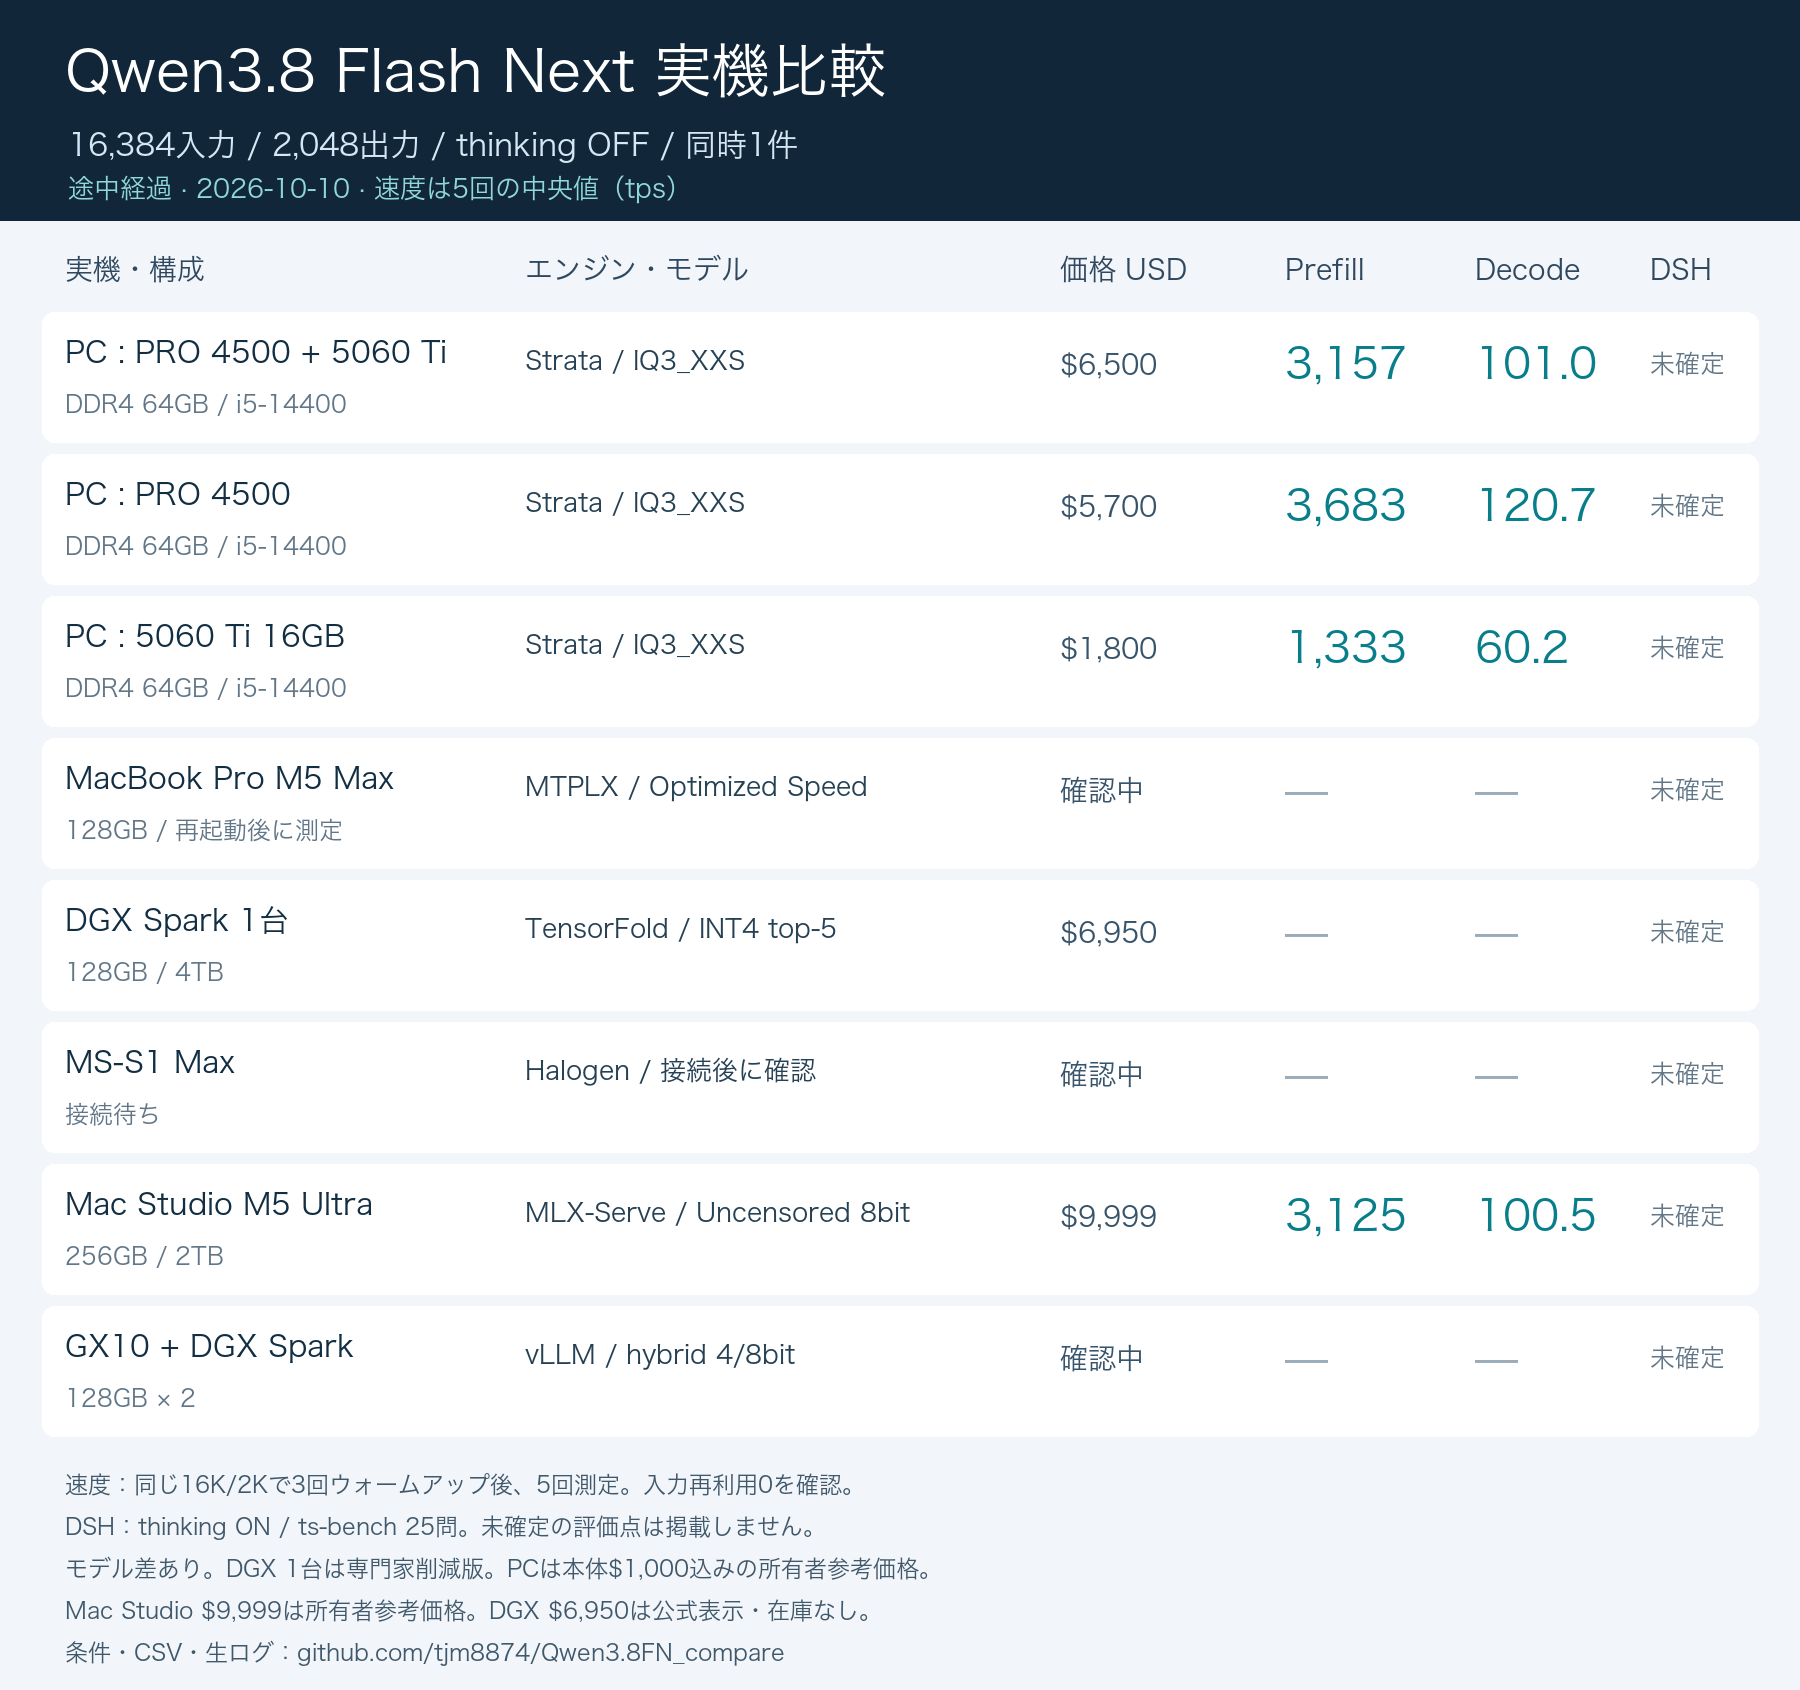
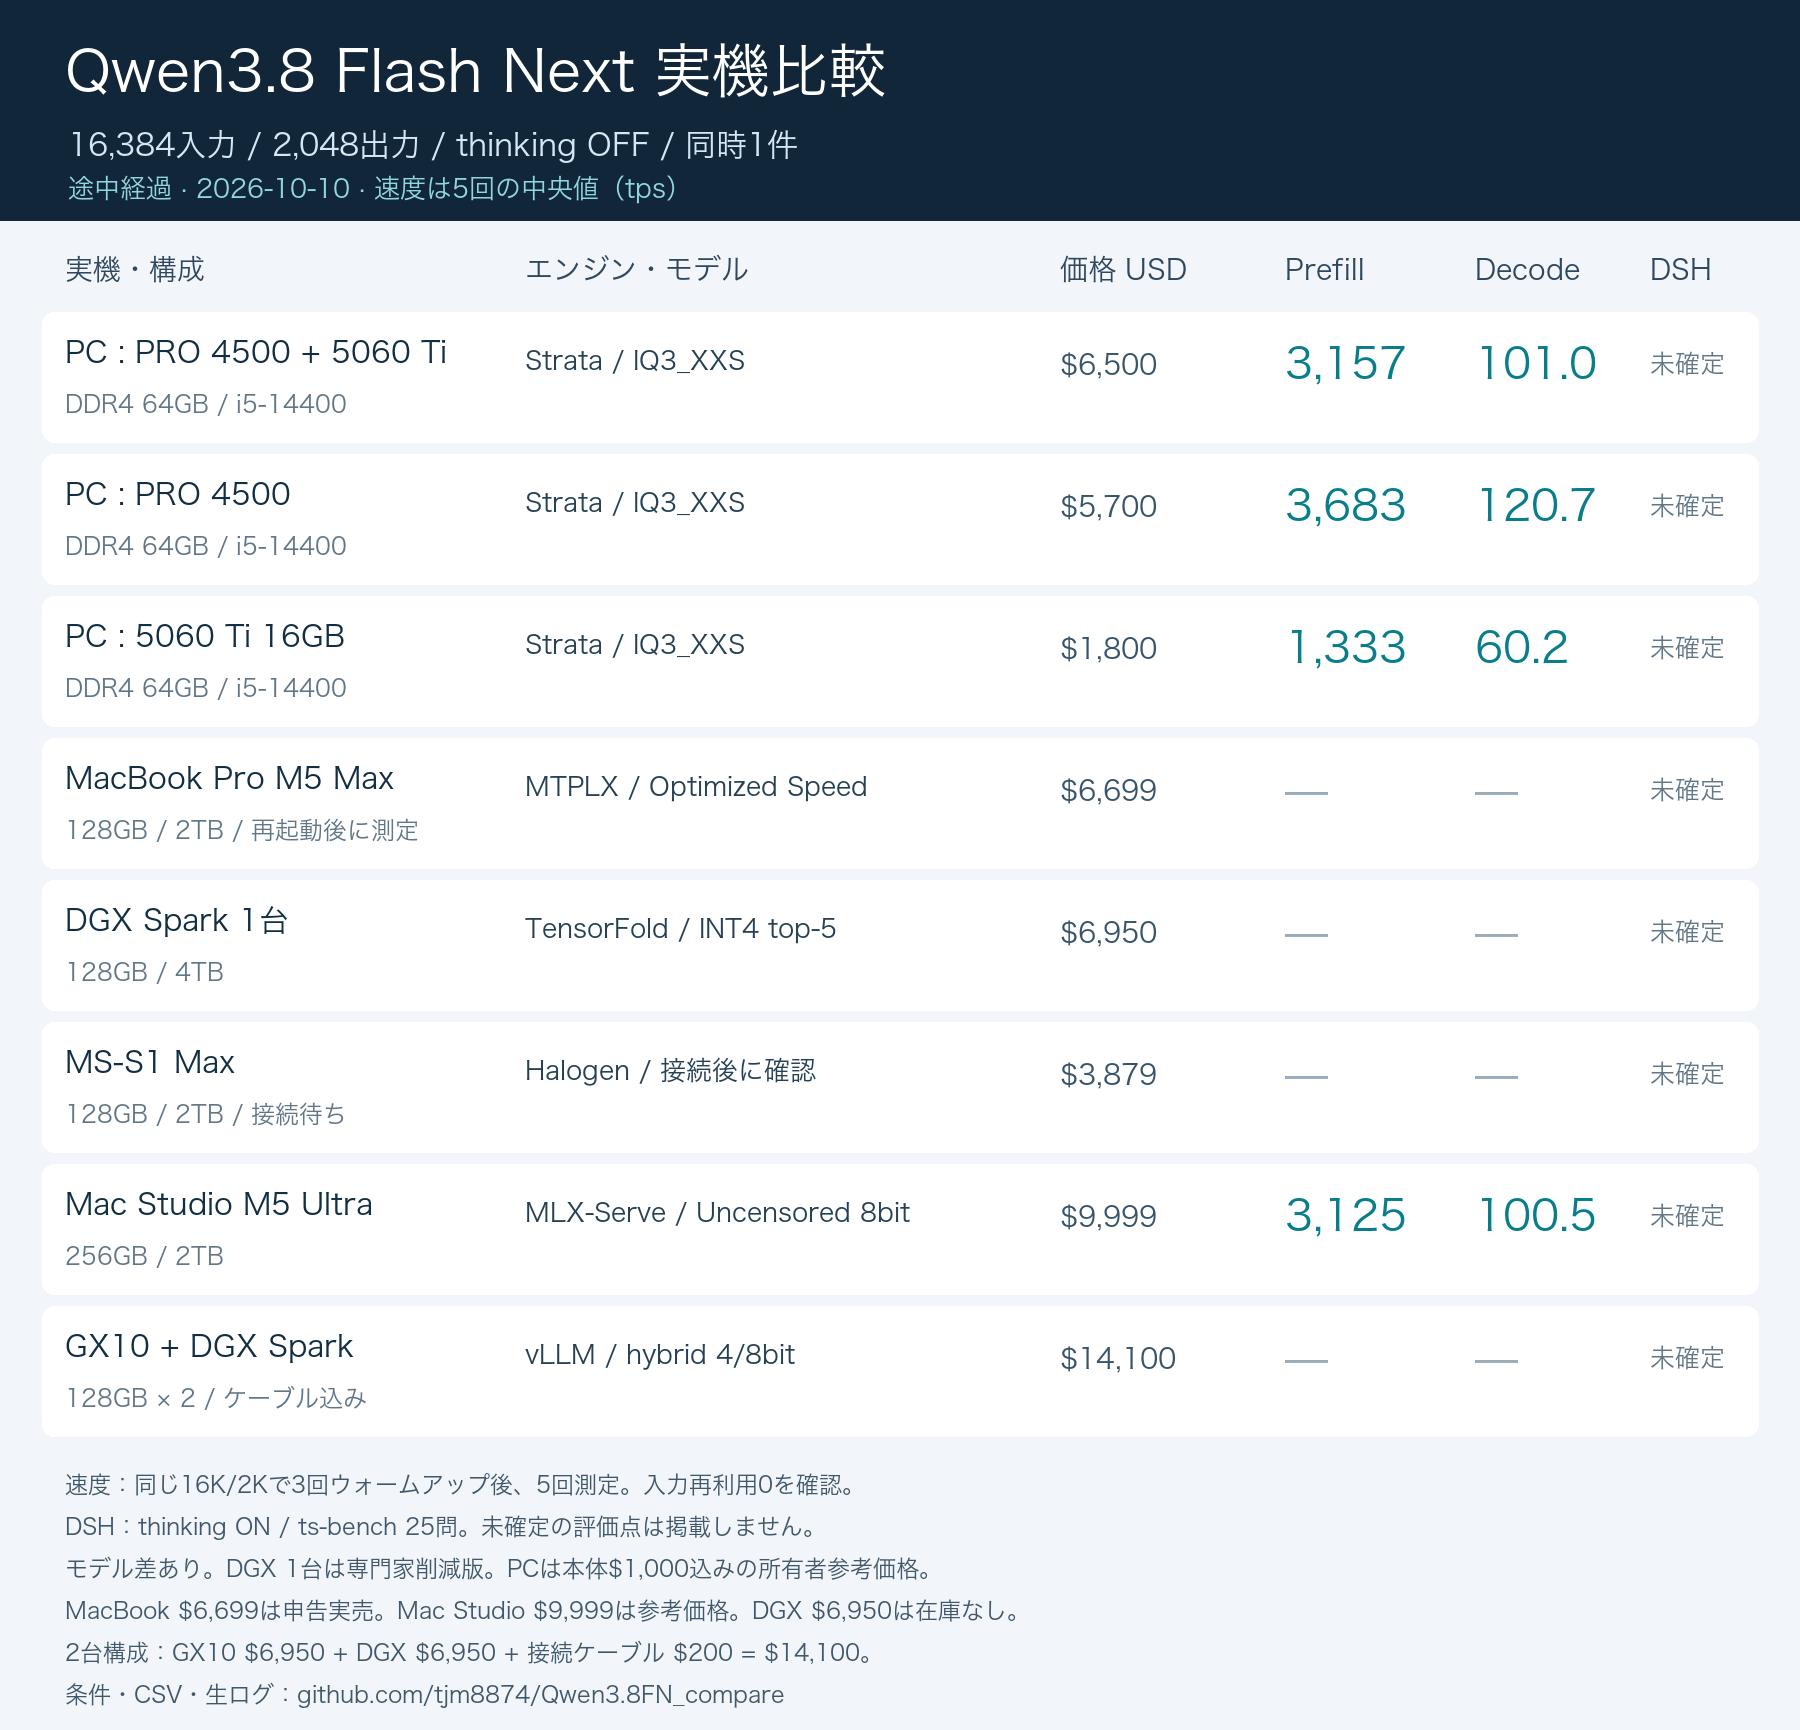
Record owner supplied MacBook and MS-S1 prices and $14,100 two-node budget including cable

diff --git a/scripts/export_results.py b/scripts/export_results.py
@@ -15,11 +15,11 @@ LABELS = {
     "cuda-dual": ("PC : PRO 4500 + 5060 Ti", "Strata / IQ3_XXS", "DDR4 64GB / i5-14400"),
     "cuda-pro4500": ("PC : PRO 4500", "Strata / IQ3_XXS", "DDR4 64GB / i5-14400"),
     "cuda-5060ti": ("PC : 5060 Ti 16GB", "Strata / IQ3_XXS", "DDR4 64GB / i5-14400"),
-    "macbook-m5max": ("MacBook Pro M5 Max", "MTPLX / Optimized Speed", "128GB / 再起動後に測定"),
+    "macbook-m5max": ("MacBook Pro M5 Max", "MTPLX / Optimized Speed", "128GB / 2TB / 再起動後に測定"),
     "spark-single": ("DGX Spark 1台", "TensorFold / INT4 top-5", "128GB / 4TB"),
-    "ms-s1max": ("MS-S1 Max", "Halogen / 接続後に確認", "接続待ち"),
+    "ms-s1max": ("MS-S1 Max", "Halogen / 接続後に確認", "128GB / 2TB / 接続待ち"),
     "macstudio-m5ultra": ("Mac Studio M5 Ultra", "MLX-Serve / Uncensored 8bit", "256GB / 2TB"),
-    "gx10-spark": ("GX10 + DGX Spark", "vLLM / hybrid 4/8bit", "128GB × 2"),
+    "gx10-spark": ("GX10 + DGX Spark", "vLLM / hybrid 4/8bit", "128GB × 2 / ケーブル込み"),
 }
 
 
@@ -141,7 +141,7 @@ def render(root, rows):
     fontpath = "/System/Library/Fonts/ヒラギノ角ゴシック W3.ttc"
     def font(size):
         return ImageFont.truetype(fontpath, size)
-    image = Image.new("RGB", (1800, 1690), "#f2f5f9")
+    image = Image.new("RGB", (1800, 1730), "#f2f5f9")
     draw = ImageDraw.Draw(image)
     draw.rectangle((0, 0, 1800, 220), fill="#112638")
     draw.text((65, 40), "Qwen3.8 Flash Next 実機比較", font=font(58), fill="white")
@@ -169,8 +169,9 @@ def render(root, rows):
     for y, text in [(1472, "速度：同じ16K/2Kで3回ウォームアップ後、5回測定。入力再利用0を確認。"),
                     (1514, "DSH：thinking ON / ts-bench 25問。未確定の評価点は掲載しません。"),
                     (1556, "モデル差あり。DGX 1台は専門家削減版。PCは本体$1,000込みの所有者参考価格。"),
-                    (1598, "Mac Studio $9,999は所有者参考価格。DGX $6,950は公式表示・在庫なし。"),
-                    (1640, "条件・CSV・生ログ：github.com/tjm8874/Qwen3.8FN_compare")]:
+                    (1598, "MacBook $6,699は申告実売。Mac Studio $9,999は参考価格。DGX $6,950は在庫なし。"),
+                    (1640, "2台構成：GX10 $6,950 + DGX $6,950 + 接続ケーブル $200 = $14,100。"),
+                    (1682, "条件・CSV・生ログ：github.com/tjm8874/Qwen3.8FN_compare")]:
         draw.text((65, y), text, font=font(23), fill="#40586b")
     output = root / "images/comparison-progress.png"
     output.parent.mkdir(parents=True, exist_ok=True)

diff --git a/README.md b/README.md
@@ -16,11 +16,11 @@ Mac Studio M5 Ultraの既存8bitモデルはDecode中央値100.5 tpsでした。
 | PC : PRO 4500 + 5060 Ti | 3,157.1 | 101.0 | 未確定 | $6,500 |
 | PC : PRO 4500 | 3,683.0 | 120.7 | 未確定 | $5,700 |
 | PC : 5060 Ti 16GB | 1,333.1 | 60.2 | 未確定 | $1,800 |
-| MacBook Pro M5 Max | 未測定 | 未測定 | 未確定 | 確認中 |
+| MacBook Pro M5 Max | 未測定 | 未測定 | 未確定 | $6,699 |
 | DGX Spark 1台 | 未測定 | 未測定 | 未確定 | $6,950 |
-| MS-S1 Max | 未測定 | 未測定 | 未確定 | 確認中 |
+| MS-S1 Max | 未測定 | 未測定 | 未確定 | $3,879 |
 | Mac Studio M5 Ultra | 3,125.0 | 100.5 | 未確定 | $9,999 |
-| GX10 + DGX Spark | 未測定 | 未測定 | 未確定 | 確認中 |
+| GX10 + DGX Spark | 未測定 | 未測定 | 未確定 | $14,100 |
 <!-- RESULTS_END -->
 
 速度は5回の中央値です。最小値・最大値、TTFT、全試行の数値は[CSV](data/summary.csv)に収録しています。価格は所有者の参考価格と販売店の表示価格を区別し、DGX Sparkの公式表示価格は在庫なしの参考値です。[価格の出典・構成・確認日](data/prices.json)をご確認ください。
@@ -34,13 +34,15 @@ Mac Studio M5 Ultraの既存8bitモデルはDecode中央値100.5 tpsでした。
 | PC：PRO 4500＋5060 Ti | Strata 0.1.42／IQ3_XXS | $6,500* | 速度測定済み・DSH評価中 |
 | PC：PRO 4500のみ | Strata 0.1.42／IQ3_XXS | $5,700* | 速度測定済み・DSH待機 |
 | PC：5060 Ti 16GBのみ | Strata 0.1.42／IQ3_XXS | $1,800* | 速度測定済み・DSH待機 |
-| MacBook Pro M5 Max 128GB | [MTPLX](https://github.com/youssofal/MTPLX)／Optimized Speed候補 | 確認中 | 再起動後に測定 |
+| MacBook Pro M5 Max 128GB・2TB | [MTPLX](https://github.com/youssofal/MTPLX)／Optimized Speed候補 | $6,699* | 再起動後に測定 |
 | DGX Spark 1台 | [TensorFold指定レシピ](https://github.com/MiaAI-Lab/Qwen3.8-Flash-Next-Single-DGX-Spark-TensorFold)／INT4・専門家削減モデル | $6,950† | モデル取得中 |
-| MS-S1 Max | [Halogen指定レシピ](https://github.com/claudejaune/Qwen3.8-Halogen-Flash-Strix-Halo) | 確認中 | 接続待ち |
+| MS-S1 Max 128GB・2TB | [Halogen指定レシピ](https://github.com/claudejaune/Qwen3.8-Halogen-Flash-Strix-Halo) | $3,879* | 接続待ち |
 | Mac Studio M5 Ultra 256GB・2TB | 既存MLX-Serve／Uncensored 8bit | $9,999* | 速度測定済み・DSH待機 |
-| GX10＋DGX Spark | vLLMレシピv5.2／Uncensored hybrid 4/8bit | 確認中 | 新エンジン・モデルの準備中 |
+| GX10＋DGX Spark | vLLMレシピv5.2／Uncensored hybrid 4/8bit | $14,100* | 新エンジン・モデルの準備中 |
 
 \* 所有者が示した参考価格。PC本体はCore i5-14400・DDR4 64GB・Z790Aマザーボードを含めて$1,000、PRO 4500は$4,700、5060 Ti 16GBは$800で計算しています。販売店の確認価格は、確認日・SSDなどの構成・税送料の扱いとともに別途記録します。価格だけで能力を順位づけせず、速度と25問の成功数を併記します。
+
+MacBook Pro M5 Max 128GB・2TBの$6,699は所有者が示した実売価格、MS-S1 Max 128GB・2TBは$3,879です。GX10＋DGX Sparkは、所有者の指定に合わせて1台あたり$6,950とし、接続ケーブル$200を加えた**$14,100**（$6,950 × 2 ＋ $200）で比較します。GX10単体について、販売店で確認した価格とは区別します。
 
 † [NVIDIA US公式ページ](https://marketplace.nvidia.com/en-us/enterprise/personal-ai-supercomputers/dgx-spark/)の2026年10月10日の表示価格。128GB・4TB構成は在庫なしであり、この価格で今すぐ購入できることを示しません。
 

diff --git a/data/results-table.md b/data/results-table.md
@@ -3,8 +3,8 @@
 | PC : PRO 4500 + 5060 Ti | 3,157.1 | 101.0 | 未確定 | $6,500 |
 | PC : PRO 4500 | 3,683.0 | 120.7 | 未確定 | $5,700 |
 | PC : 5060 Ti 16GB | 1,333.1 | 60.2 | 未確定 | $1,800 |
-| MacBook Pro M5 Max | 未測定 | 未測定 | 未確定 | 確認中 |
+| MacBook Pro M5 Max | 未測定 | 未測定 | 未確定 | $6,699 |
 | DGX Spark 1台 | 未測定 | 未測定 | 未確定 | $6,950 |
-| MS-S1 Max | 未測定 | 未測定 | 未確定 | 確認中 |
+| MS-S1 Max | 未測定 | 未測定 | 未確定 | $3,879 |
 | Mac Studio M5 Ultra | 3,125.0 | 100.5 | 未確定 | $9,999 |
-| GX10 + DGX Spark | 未測定 | 未測定 | 未確定 | 確認中 |
+| GX10 + DGX Spark | 未測定 | 未測定 | 未確定 | $14,100 |
